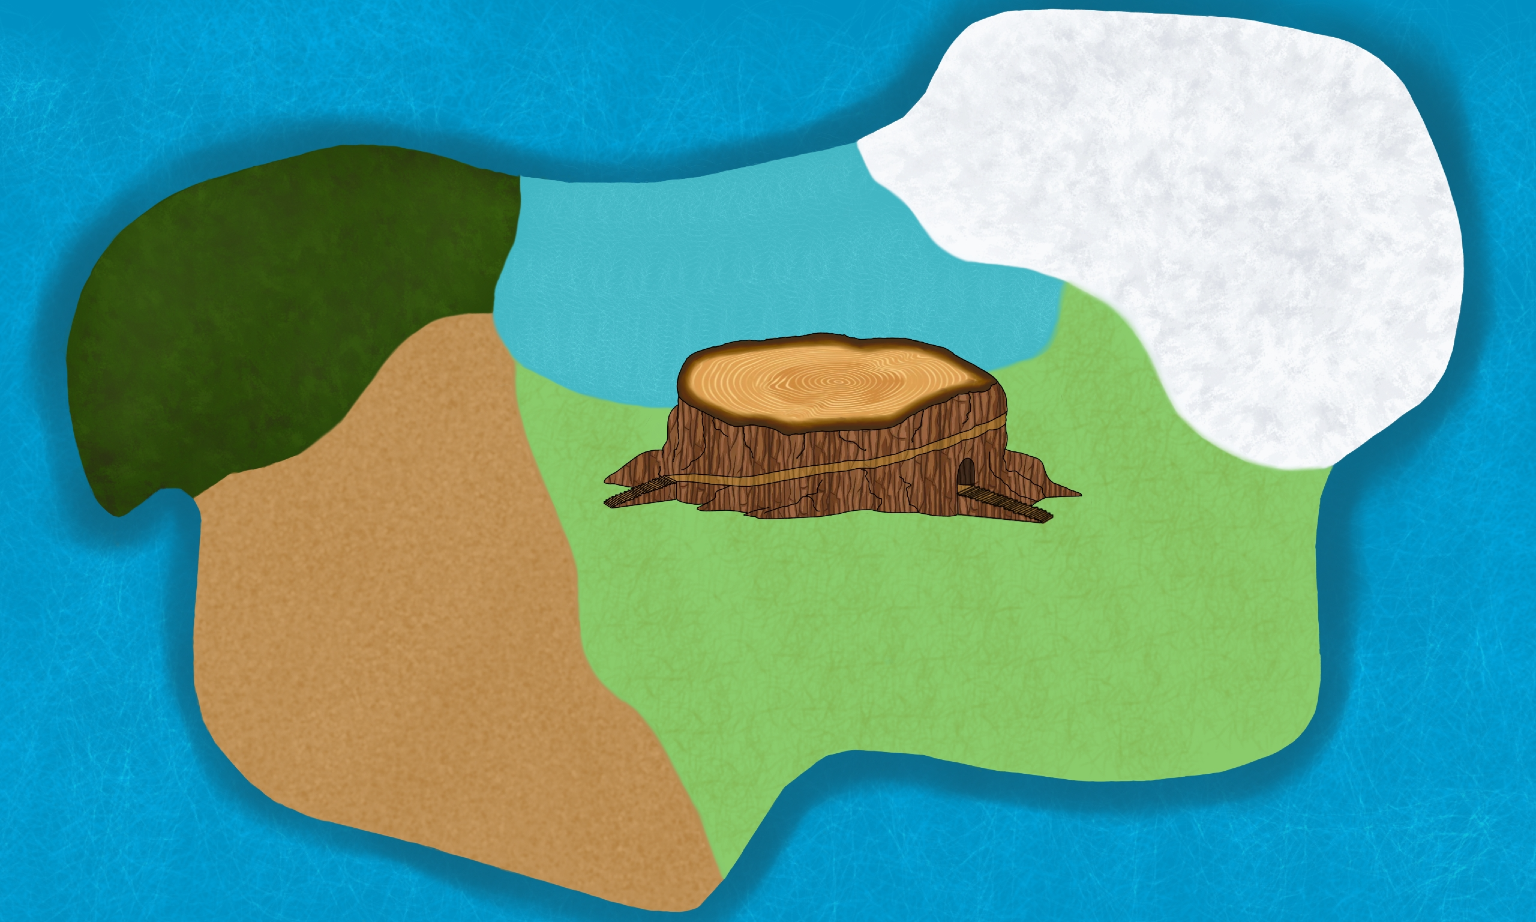
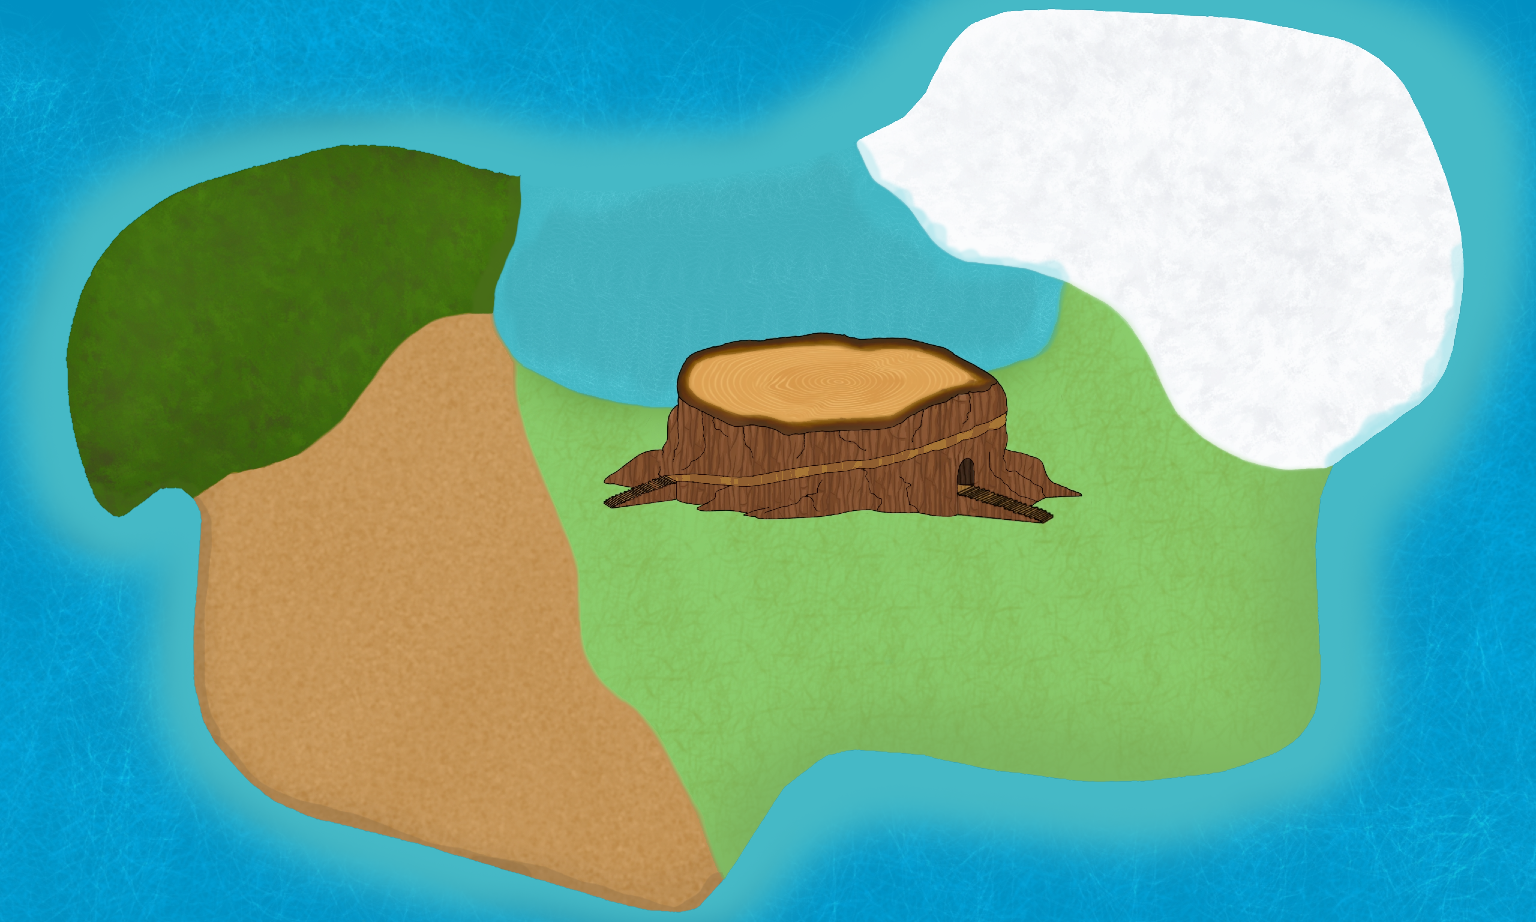
Versión nueva del mapa

diff --git a/src/scene/missionScene.js b/src/scene/missionScene.js
@@ -86,7 +86,7 @@ export default class MissionScene extends Phaser.Scene {
             nameContainer.add(letter);
             xOffset += letter.width + spacing;
         }
-        nameContainer.setAngle(-2.8);
+        nameContainer.setAngle(-2.6);
         return nameContainer;
     }
 